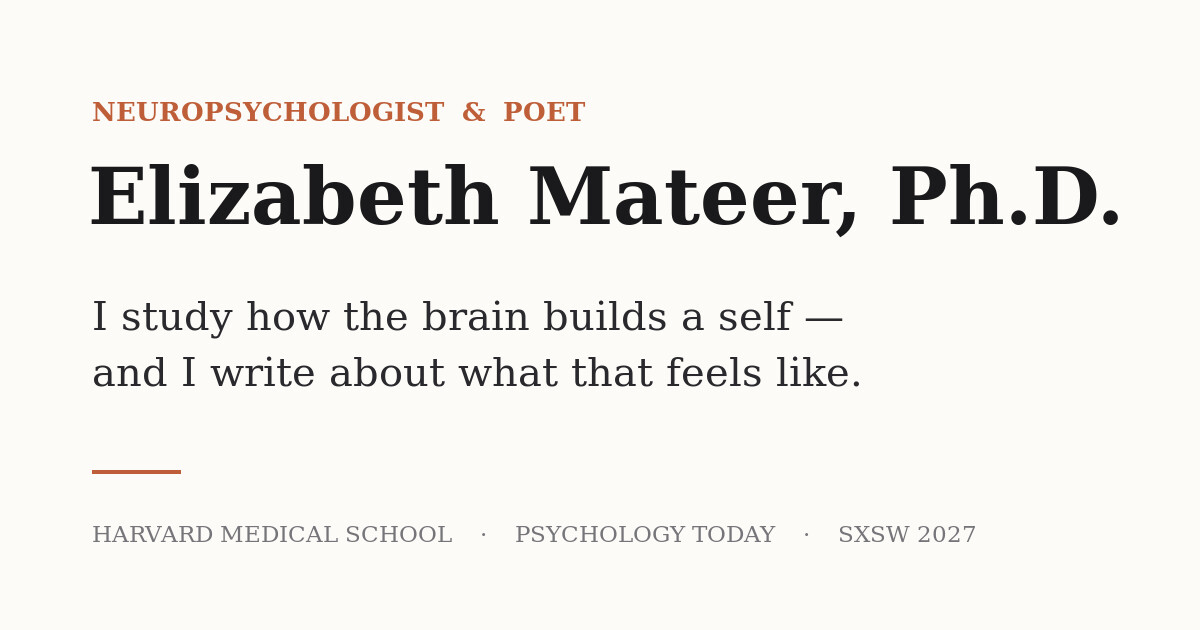
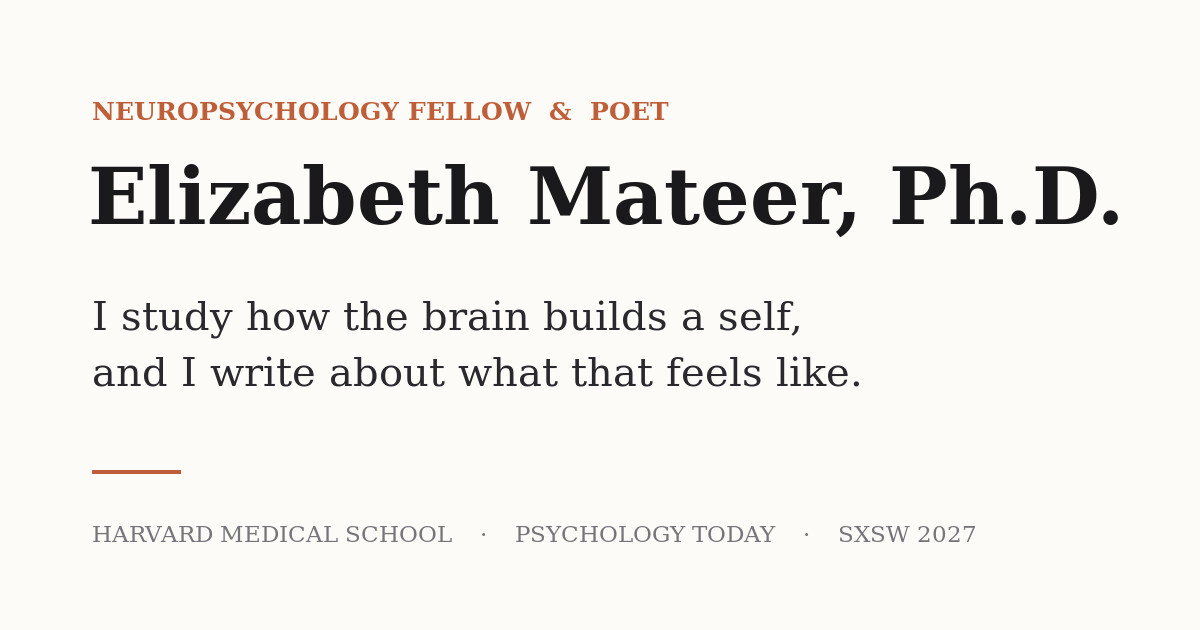
Refine pass 1: "neuropsychology fellow", no em dashes, PsychDraft thesis
Pre-merge revisions from Elizabeth's review:

- Self-description: "neuropsychologist" -> "neuropsychology fellow"
  everywhere (hero, titles, meta, og-image) since she isn't licensed yet
- Removed em dashes across all rendered copy (they read as AI); replaced
  with commas/periods per context, including older talk-resource pages
- PsychDraft now leads with its thesis -- technology that gives clinicians
  their time back so they can be more present -- rather than leading with
  "AI" (on the homepage and About)
- Regenerated the og share card with the new label and line

Claude-Session: https://claude.ai/code/session_01941akgu8zD2G1DYAwsXHhK

Changed region(s): [[0.0925, 0.1508, 0.555, 0.2111], [0.6783, 0.4825, 0.7092, 0.5127]]

diff --git a/src/pages/FoundersMind.jsx b/src/pages/FoundersMind.jsx
@@ -127,7 +127,7 @@ const FoundersMind = () => {
             createdMeta = true;
         }
         const prevDesc = metaDesc.getAttribute('content');
-        metaDesc.setAttribute('content', 'Explore cognitive profiles, frameworks, reflection tools, and scientific research from The Founder’s Mind — Dr. Elizabeth Mateer’s signature talk on entrepreneurship psychology.');
+        metaDesc.setAttribute('content', 'Explore cognitive profiles, frameworks, reflection tools, and scientific research from The Founder’s Mind, Dr. Elizabeth Mateer’s signature talk on entrepreneurship psychology.');
 
         return () => {
             if (createdMeta) {
@@ -246,9 +246,9 @@ const FoundersMind = () => {
                     <p className="fm-hero-credibility">Presented in founder, academic, and interdisciplinary settings, including Boston Tech Week.</p>
                     
                     <p className="fm-hero-intro">
-                        Building something ambitious is not only an execution problem — it is also a cognitive and psychological challenge involving attention, working memory, identity, emotional regulation, uncertainty tolerance, and decision-making.
+                        Building something ambitious is not only an execution problem, it is also a cognitive and psychological challenge involving attention, working memory, identity, emotional regulation, uncertainty tolerance, and decision-making.
                         <br /><br />
-                        This page includes selected frameworks, reflection tools, and research explored through The Founder’s Mind — a research-informed conversation on the psychology of building, curated by <strong>Elizabeth Mateer, PhD</strong> — Founder, PsychDraft.
+                        This page includes selected frameworks, reflection tools, and research explored through The Founder’s Mind, a research-informed conversation on the psychology of building, curated by <strong>Elizabeth Mateer, PhD</strong>, Founder, PsychDraft.
                     </p>
 
                     <div className="fm-hero-ctas">
@@ -275,7 +275,7 @@ const FoundersMind = () => {
                         </Button>
                     </div>
                     <p style={{ marginTop: '24px', fontSize: '0.85rem', fontStyle: 'italic', color: 'var(--color-text-secondary)' }}>
-                        Bookmark this page — these tools are designed to be revisited regularly as your company and cognitive demands scale.
+                        Bookmark this page, these tools are designed to be revisited regularly as your company and cognitive demands scale.
                     </p>
                 </div>
             </header>
@@ -287,7 +287,7 @@ const FoundersMind = () => {
                         <h3 className="fm-about-title">About the Talk</h3>
                         <div className="fm-about-content">
                             <p className="fm-about-text">
-                                The Founder’s Mind explores the hidden psychological demands of entrepreneurship and ambitious work — including cognitive load, identity shifts, burnout risk, creativity, attention, emotional regulation, and decision-making under uncertainty.
+                                The Founder’s Mind explores the hidden psychological demands of entrepreneurship and ambitious work, including cognitive load, identity shifts, burnout risk, creativity, attention, emotional regulation, and decision-making under uncertainty.
                             </p>
                             <p className="fm-about-text">
                                 Originally developed for founder communities, the talk has since expanded into broader conversations on human performance, reinvention, and meaningful work.
@@ -416,11 +416,11 @@ const FoundersMind = () => {
                         <div className="results-dashboard">
                             <div className="results-heading">
                                 <h3>Your Founder Mind Configuration</h3>
-                                <p>Your highest patterns are not labels. Think of them as clues about where you create leverage — and where your strengths may need structure.</p>
+                                <p>Your highest patterns are not labels. Think of them as clues about where you create leverage, and where your strengths may need structure.</p>
                             </div>
 
                             <div className="results-config-note" style={{ marginBottom: '32px' }}>
-                                <strong>Reflection Note:</strong> Most founders are not just one type. Your founder mind is usually a configuration. Pay attention to your top two patterns — especially where one creates energy and the other creates friction. If your top scores are close, that may reflect a blended founder profile rather than a single dominant pattern.
+                                <strong>Reflection Note:</strong> Most founders are not just one type. Your founder mind is usually a configuration. Pay attention to your top two patterns, especially where one creates energy and the other creates friction. If your top scores are close, that may reflect a blended founder profile rather than a single dominant pattern.
                             </div>
 
                             <div className="results-primary-deck">

diff --git a/src/pages/About.jsx b/src/pages/About.jsx
@@ -5,7 +5,7 @@ import './About.css';
 import './Research.css';
 
 const About = () => {
-    useDocumentTitle('About — Elizabeth Mateer, Ph.D.');
+    useDocumentTitle('About | Elizabeth Mateer, Ph.D.');
 
     return (
         <div className="about-page">
@@ -31,19 +31,19 @@ const About = () => {
                         </p>
 
                         <p className="bio-paragraph">
-                            Across my clinical work and my writing, I'm interested in one thing: how people construct meaning — through art, through work, and through the stories they tell about their own lives. My research looks at the neuropsychological foundations of attention, resilience, and self-authorship, and at how we navigate change and rebuild a coherent sense of self over time.
+                            Across my clinical work and my writing, I'm interested in one thing: how people construct meaning, through art, through work, and through the stories they tell about their own lives. My research looks at the neuropsychological foundations of attention, resilience, and self-authorship, and at how we navigate change and rebuild a coherent sense of self over time.
                         </p>
 
                         <p className="bio-paragraph">
-                            Clinically, I conduct neuropsychological evaluations across diverse medical and psychiatric populations, and I'm currently completing advanced training as a Clinical Fellow in Psychology affiliated with Harvard Medical School. My research focuses on attention and traumatic brain injury, with an emphasis on translating complex findings into something that's actually useful in everyday life — and on how cognition shapes creativity, decision-making, and long-term growth.
+                            Clinically, I conduct neuropsychological evaluations across diverse medical and psychiatric populations, and I'm currently completing advanced training as a Clinical Fellow in Psychology affiliated with Harvard Medical School. My research focuses on attention and traumatic brain injury, with an emphasis on translating complex findings into something that's actually useful in everyday life, and on how cognition shapes creativity, decision-making, and long-term growth.
                         </p>
 
                         <p className="bio-paragraph">
-                            I'm also a poet. I've written two collections, <em>Searching for Home</em> (2024) and <em>A New Type of Breakfast</em> (2026) — the same questions about identity and belonging that drive my research, worked out on the page.
+                            I'm also a poet. I've written two collections, <em>Searching for Home</em> (2024) and <em>A New Type of Breakfast</em> (2026), the same questions about identity and belonging that drive my research, worked out on the page.
                         </p>
 
                         <p className="bio-paragraph">
-                            And I'm the founder of <a href="https://www.psychdraft.com" target="_blank" rel="noopener noreferrer" style={{ color: 'inherit', textDecoration: 'underline' }}>PsychDraft</a>, an AI-assisted platform for clinical documentation in neuropsychology — my interest in systems design and cognitive workflow applied to the future of the profession.
+                            And I'm the founder of <a href="https://www.psychdraft.com" target="_blank" rel="noopener noreferrer" style={{ color: 'inherit', textDecoration: 'underline' }}>PsychDraft</a>, a documentation platform that gives neuropsychologists their time back, so they can spend it on the part of the work that actually matters: being present with the person in front of them. Technology in service of being more human, not less.
                         </p>
 
                         <div className="credentials-section">
@@ -77,7 +77,7 @@ const About = () => {
                             <h2 className="section-heading">Research &amp; Selected Publications</h2>
 
                             <p className="research-philosophy-quote">
-                                "My work examines how cognitive systems shape identity, agency, and recovery. I'm particularly interested in attention as a structural mechanism — how it organizes experience, influences meaning-making, and determines how we reconstruct ourselves after neurological disruption."
+                                "My work examines how cognitive systems shape identity, agency, and recovery. I'm particularly interested in attention as a structural mechanism, how it organizes experience, influences meaning-making, and determines how we reconstruct ourselves after neurological disruption."
                             </p>
 
                             <h4 className="research-subheading">Key Topics</h4>

diff --git a/src/pages/Home.jsx b/src/pages/Home.jsx
@@ -6,7 +6,7 @@ import './Home.css';
 import PortraitImage from '../assets/profile6.png';
 
 const Home = () => {
-    useDocumentTitle('Elizabeth Mateer, Ph.D. | Neuropsychologist & Poet');
+    useDocumentTitle('Elizabeth Mateer, Ph.D. | Neuropsychology Fellow & Poet');
 
     return (
         <div className="home-page">
@@ -23,10 +23,10 @@ const Home = () => {
                             Elizabeth Mateer, Ph.D.
                         </h1>
                         <p className="hero-subtitle animate-text delay-1">
-                            Neuropsychologist &amp; Poet
+                            Neuropsychology Fellow &amp; Poet
                         </p>
                         <p className="hero-primary-subtext animate-text delay-2">
-                            I study how the brain builds a self — and I write about what that feels like.
+                            I study how the brain builds a self, and I write about what that feels like.
                         </p>
                         <Link to="/speaking" className="hero-eyebrow-tag animate-text delay-3">
                             SPEAKING AT SXSW 2027 · AUSTIN, MARCH
@@ -46,7 +46,7 @@ const Home = () => {
                 </div>
             </section>
 
-            {/* Through-line statement — says the connection out loud */}
+            {/* Through-line statement, says the connection out loud */}
             <section className="throughline-section">
                 <div className="container">
                     <p className="throughline-statement">
@@ -69,7 +69,7 @@ const Home = () => {
                 </div>
             </section>
 
-            {/* Three facets — one subject, several instruments */}
+            {/* Three facets, one subject, several instruments */}
             <section className="facets-section section">
                 <div className="container">
                     <div className="work-cards-grid">
@@ -80,7 +80,7 @@ const Home = () => {
                         </div>
                         <div className="work-card">
                             <h3>Speaking</h3>
-                            <p>Talks that turn the research into something a room can use — most recently MIT Sloan, Boston Tech Week, and SXSW 2027.</p>
+                            <p>Talks that turn the research into something a room can use, most recently MIT Sloan, Boston Tech Week, and SXSW 2027.</p>
                             <Button to="/speaking" variant="text" className="work-cta">See speaking →</Button>
                         </div>
                         <div className="work-card">
@@ -93,7 +93,7 @@ const Home = () => {
             </section>
 
             {/*
-              A TASTE OF THE WORK — waiting on Elizabeth's chosen lines.
+              A TASTE OF THE WORK, waiting on Elizabeth's chosen lines.
               Drop 4–6 lines of poetry here as a <section className="taste-section"> so a
               visitor actually reads her on the homepage. Left out until she picks the lines.
             */}
@@ -102,11 +102,11 @@ const Home = () => {
             <section className="ventures-strip section">
                 <div className="container ventures-container">
                     <p className="venture-line">
-                        <strong>PsychDraft</strong> — I'm the founder, rethinking neuropsychological documentation with AI.{' '}
+                        <strong>PsychDraft</strong>, the platform I founded to give clinicians their time back, so they can spend it being present with the people in front of them.{' '}
                         <a href="https://www.psychdraft.com" target="_blank" rel="noopener noreferrer">Explore PsychDraft →</a>
                     </p>
                     <p className="venture-line">
-                        <strong>Searching for Home Collective</strong> — I founded and curate this literary salon in Boston.{' '}
+                        <strong>Searching for Home Collective</strong>, the literary salon I founded and curate in Boston.{' '}
                         <a href="https://www.searchingforhomecollective.com/" target="_blank" rel="noopener noreferrer">Explore the Collective →</a>
                     </p>
                 </div>

diff --git a/src/pages/Speaking.jsx b/src/pages/Speaking.jsx
@@ -16,7 +16,7 @@ import useDocumentTitle from '../hooks/useDocumentTitle';
 import './Speaking.css';
 
 const Speaking = () => {
-    useDocumentTitle('Speaking — Elizabeth Mateer, Ph.D.');
+    useDocumentTitle('Speaking | Elizabeth Mateer, Ph.D.');
     return (
         <div className="speaking-page">
             <div className="container speaking-container">
@@ -26,7 +26,7 @@ const Speaking = () => {
                     <h1 className="page-title text-center">Speaking & Workshops</h1>
                     <div className="speaking-intro">
                         <p className="editorial-lead">
-                            I speak on attention, identity, and performance — turning clinical research into something a room can actually use. Recent rooms: the MIT Sloan Fellows MBA, Boston Tech Week, and a Core Conversation at SXSW 2027.
+                            I speak on attention, identity, and performance, turning clinical research into something a room can actually use. Recent rooms: the MIT Sloan Fellows MBA, Boston Tech Week, and a Core Conversation at SXSW 2027.
                         </p>
                     </div>
                 </header>
@@ -48,7 +48,7 @@ const Speaking = () => {
                                 <span className="sxsw-eyebrow">SXSW 2027 · CORE CONVERSATION</span>
                                 <h2 className="sxsw-title">Diagnose, Don’t Discipline: Productivity for Smart People</h2>
                                 <p className="sxsw-description">
-                                    Selected for SXSW 2027 in Austin, March 15–21. This Core Conversation reframes productivity as a diagnostic process: understanding your own patterns of attention, energy, motivation, and emotional regulation, then building systems that work with your brain instead of forcing it into someone else’s routine. As a Core Conversation, most of the session is interactive — a room working through what has and hasn’t worked for you, and why.
+                                    Selected for SXSW 2027 in Austin, March 15–21. This Core Conversation reframes productivity as a diagnostic process: understanding your own patterns of attention, energy, motivation, and emotional regulation, then building systems that work with your brain instead of forcing it into someone else’s routine. As a Core Conversation, most of the session is interactive, a room working through what has and hasn’t worked for you, and why.
                                 </p>
                                 <div className="sxsw-ctas">
                                     <Button 
@@ -80,7 +80,7 @@ const Speaking = () => {
                             </div>
 
                             <p className="talk-description">
-                                A practical, research-informed workshop exploring why productivity problems are often assessment problems. The session examined how founders can better understand their patterns of attention, energy, motivation, decision-making, and stress—and build systems that work with their cognitive strengths rather than against them.
+                                A practical, research-informed workshop exploring why productivity problems are often assessment problems. The session examined how founders can better understand their patterns of attention, energy, motivation, decision-making, and stress, and build systems that work with their cognitive strengths rather than against them.
                             </p>
                             
                             <div className="upcoming-takeaways" style={{ marginBottom: '1.5rem' }}>

diff --git a/index.html b/index.html
@@ -5,22 +5,22 @@
   <meta charset="UTF-8" />
   <link rel="icon" type="image/png" href="/favicon.png" />
   <meta name="viewport" content="width=device-width, initial-scale=1.0" />
-  <title>Elizabeth Mateer, Ph.D. | Neuropsychologist & Poet</title>
+  <title>Elizabeth Mateer, Ph.D. | Neuropsychology Fellow & Poet</title>
   <meta name="description"
-    content="Elizabeth Mateer, Ph.D. — a neuropsychologist and poet studying how attention and identity shape who we become. Harvard Medical School fellow, Psychology Today columnist, and SXSW 2027 speaker." />
+    content="Elizabeth Mateer, Ph.D. is a neuropsychology fellow and poet studying how attention and identity shape who we become. Harvard Medical School fellow, Psychology Today columnist, and SXSW 2027 speaker." />
 
   <!-- Open Graph / social sharing -->
   <meta property="og:type" content="website" />
   <meta property="og:site_name" content="Elizabeth Mateer, Ph.D." />
-  <meta property="og:title" content="Elizabeth Mateer, Ph.D. | Neuropsychologist & Poet" />
+  <meta property="og:title" content="Elizabeth Mateer, Ph.D. | Neuropsychology Fellow & Poet" />
   <meta property="og:description"
-    content="I study how the brain builds a self — and I write about what that feels like. Neuropsychologist, Psychology Today columnist, and SXSW 2027 speaker." />
+    content="I study how the brain builds a self, and I write about what that feels like. Neuropsychology fellow, Psychology Today columnist, and SXSW 2027 speaker." />
   <meta property="og:image" content="https://www.elizabethmateer.com/og-image.jpg" />
   <meta property="og:url" content="https://www.elizabethmateer.com/" />
   <meta name="twitter:card" content="summary_large_image" />
-  <meta name="twitter:title" content="Elizabeth Mateer, Ph.D. | Neuropsychologist & Poet" />
+  <meta name="twitter:title" content="Elizabeth Mateer, Ph.D. | Neuropsychology Fellow & Poet" />
   <meta name="twitter:description"
-    content="I study how the brain builds a self — and I write about what that feels like." />
+    content="I study how the brain builds a self, and I write about what that feels like." />
   <meta name="twitter:image" content="https://www.elizabethmateer.com/og-image.jpg" />
 
   <!-- Google Fonts -->

diff --git a/src/pages/BuildWithYourBrain.jsx b/src/pages/BuildWithYourBrain.jsx
@@ -296,7 +296,7 @@ const BuildWithYourBrain = () => {
                         </Button>
                     </div>
                     <p style={{ marginTop: '24px', fontSize: '0.85rem', fontStyle: 'italic', color: 'var(--color-text-secondary)' }}>
-                        Bookmark this page — these tools are designed to be revisited regularly as your company and cognitive demands scale.
+                        Bookmark this page, these tools are designed to be revisited regularly as your company and cognitive demands scale.
                     </p>
                 </div>
             </header>
@@ -434,11 +434,11 @@ const BuildWithYourBrain = () => {
                         <div className="results-dashboard">
                             <div className="results-heading">
                                 <h3>Your Founder Mind Configuration</h3>
-                                <p>Your highest patterns are not labels. Think of them as clues about where you create leverage — and where your strengths may need structure.</p>
+                                <p>Your highest patterns are not labels. Think of them as clues about where you create leverage, and where your strengths may need structure.</p>
                             </div>
 
                             <div className="results-config-note" style={{ marginBottom: '32px' }}>
-                                <strong>Reflection Note:</strong> Most founders are not just one type. Your founder mind is usually a configuration. Pay attention to your top two patterns — especially where one creates energy and the other creates friction. If your top scores are close, that may reflect a blended founder profile rather than a single dominant pattern.
+                                <strong>Reflection Note:</strong> Most founders are not just one type. Your founder mind is usually a configuration. Pay attention to your top two patterns, especially where one creates energy and the other creates friction. If your top scores are close, that may reflect a blended founder profile rather than a single dominant pattern.
                             </div>
 
                             <div className="results-primary-deck">

diff --git a/src/pages/Writing.jsx b/src/pages/Writing.jsx
@@ -6,7 +6,7 @@ import useDocumentTitle from '../hooks/useDocumentTitle';
 import './Writing.css';
 
 const Writing = () => {
-    useDocumentTitle('Writing — Elizabeth Mateer, Ph.D.');
+    useDocumentTitle('Writing | Elizabeth Mateer, Ph.D.');
     const [substackPosts] = React.useState(initialWritingPosts.substackPosts || []);
     const [ptPosts] = React.useState(initialWritingPosts.ptPosts || []);
 
@@ -121,7 +121,7 @@ const Writing = () => {
                         Elizabeth is the author of two poetry collections, <em>Searching for Home</em> (2024) and <em>A New Type of Breakfast</em> (2026).
                     </p>
                     <p style={{ marginBottom: '2rem', maxWidth: '800px', margin: '0 auto 2rem' }}>
-                        Her work has appeared in literary journals, magazines, and anthologies, and serves as the foundation for Searching for Home Collective — a literary salon and evolving creative platform devoted to craft, risk, and artistic exchange.
+                        Her work has appeared in literary journals, magazines, and anthologies, and serves as the foundation for Searching for Home Collective, a literary salon and evolving creative platform devoted to craft, risk, and artistic exchange.
                     </p>
                     <Button href="https://www.searchingforhomecollective.com/" target="_blank" variant="outline">Explore the Collective <ArrowUpRight size={16} style={{ marginLeft: '4px' }} /></Button>
                 </div>

diff --git a/src/pages/Books.jsx b/src/pages/Books.jsx
@@ -6,14 +6,14 @@ import BreakfastCover from '../assets/a new type of breakfast book cover.jpg';
 import './Books.css';
 
 const Books = () => {
-    useDocumentTitle('Poetry — Elizabeth Mateer, Ph.D.');
+    useDocumentTitle('Poetry | Elizabeth Mateer, Ph.D.');
 
     return (
         <div className="books-page">
             <div className="container">
                 <h1 className="page-title text-center">Poetry</h1>
                 <p className="books-intro text-center">
-                    Two collections about belonging and the long work of becoming yourself — the same questions I study, worked out on the page.
+                    Two collections about belonging and the long work of becoming yourself, the same questions I study, worked out on the page.
                 </p>
 
                 <div className="books-grid">

diff --git a/src/App.jsx b/src/App.jsx
@@ -35,7 +35,7 @@ function App() {
               <Route path="/poetry/a-new-type-of-breakfast" element={<Navigate to="/books/a-new-type-of-breakfast" replace />} />
               <Route path="/speaking" element={<Speaking />} />
               <Route path="/contact" element={<Contact />} />
-              {/* Research folded into About; Consulting retired — preserve inbound links */}
+              {/* Research folded into About; Consulting retired; redirects preserve inbound links */}
               <Route path="/research" element={<Navigate to="/about" replace />} />
               <Route path="/consulting" element={<Navigate to="/contact" replace />} />
               <Route path="/consulting-inquiry" element={<Navigate to="/contact" replace />} />

diff --git a/src/pages/Contact.jsx b/src/pages/Contact.jsx
@@ -6,7 +6,7 @@ import './Contact.css';
 
 const Contact = () => {
     const [state, handleSubmit] = useForm("mykdprbk");
-    useDocumentTitle('Contact — Elizabeth Mateer, Ph.D.');
+    useDocumentTitle('Contact | Elizabeth Mateer, Ph.D.');
 
     if (state.succeeded) {
         return (
